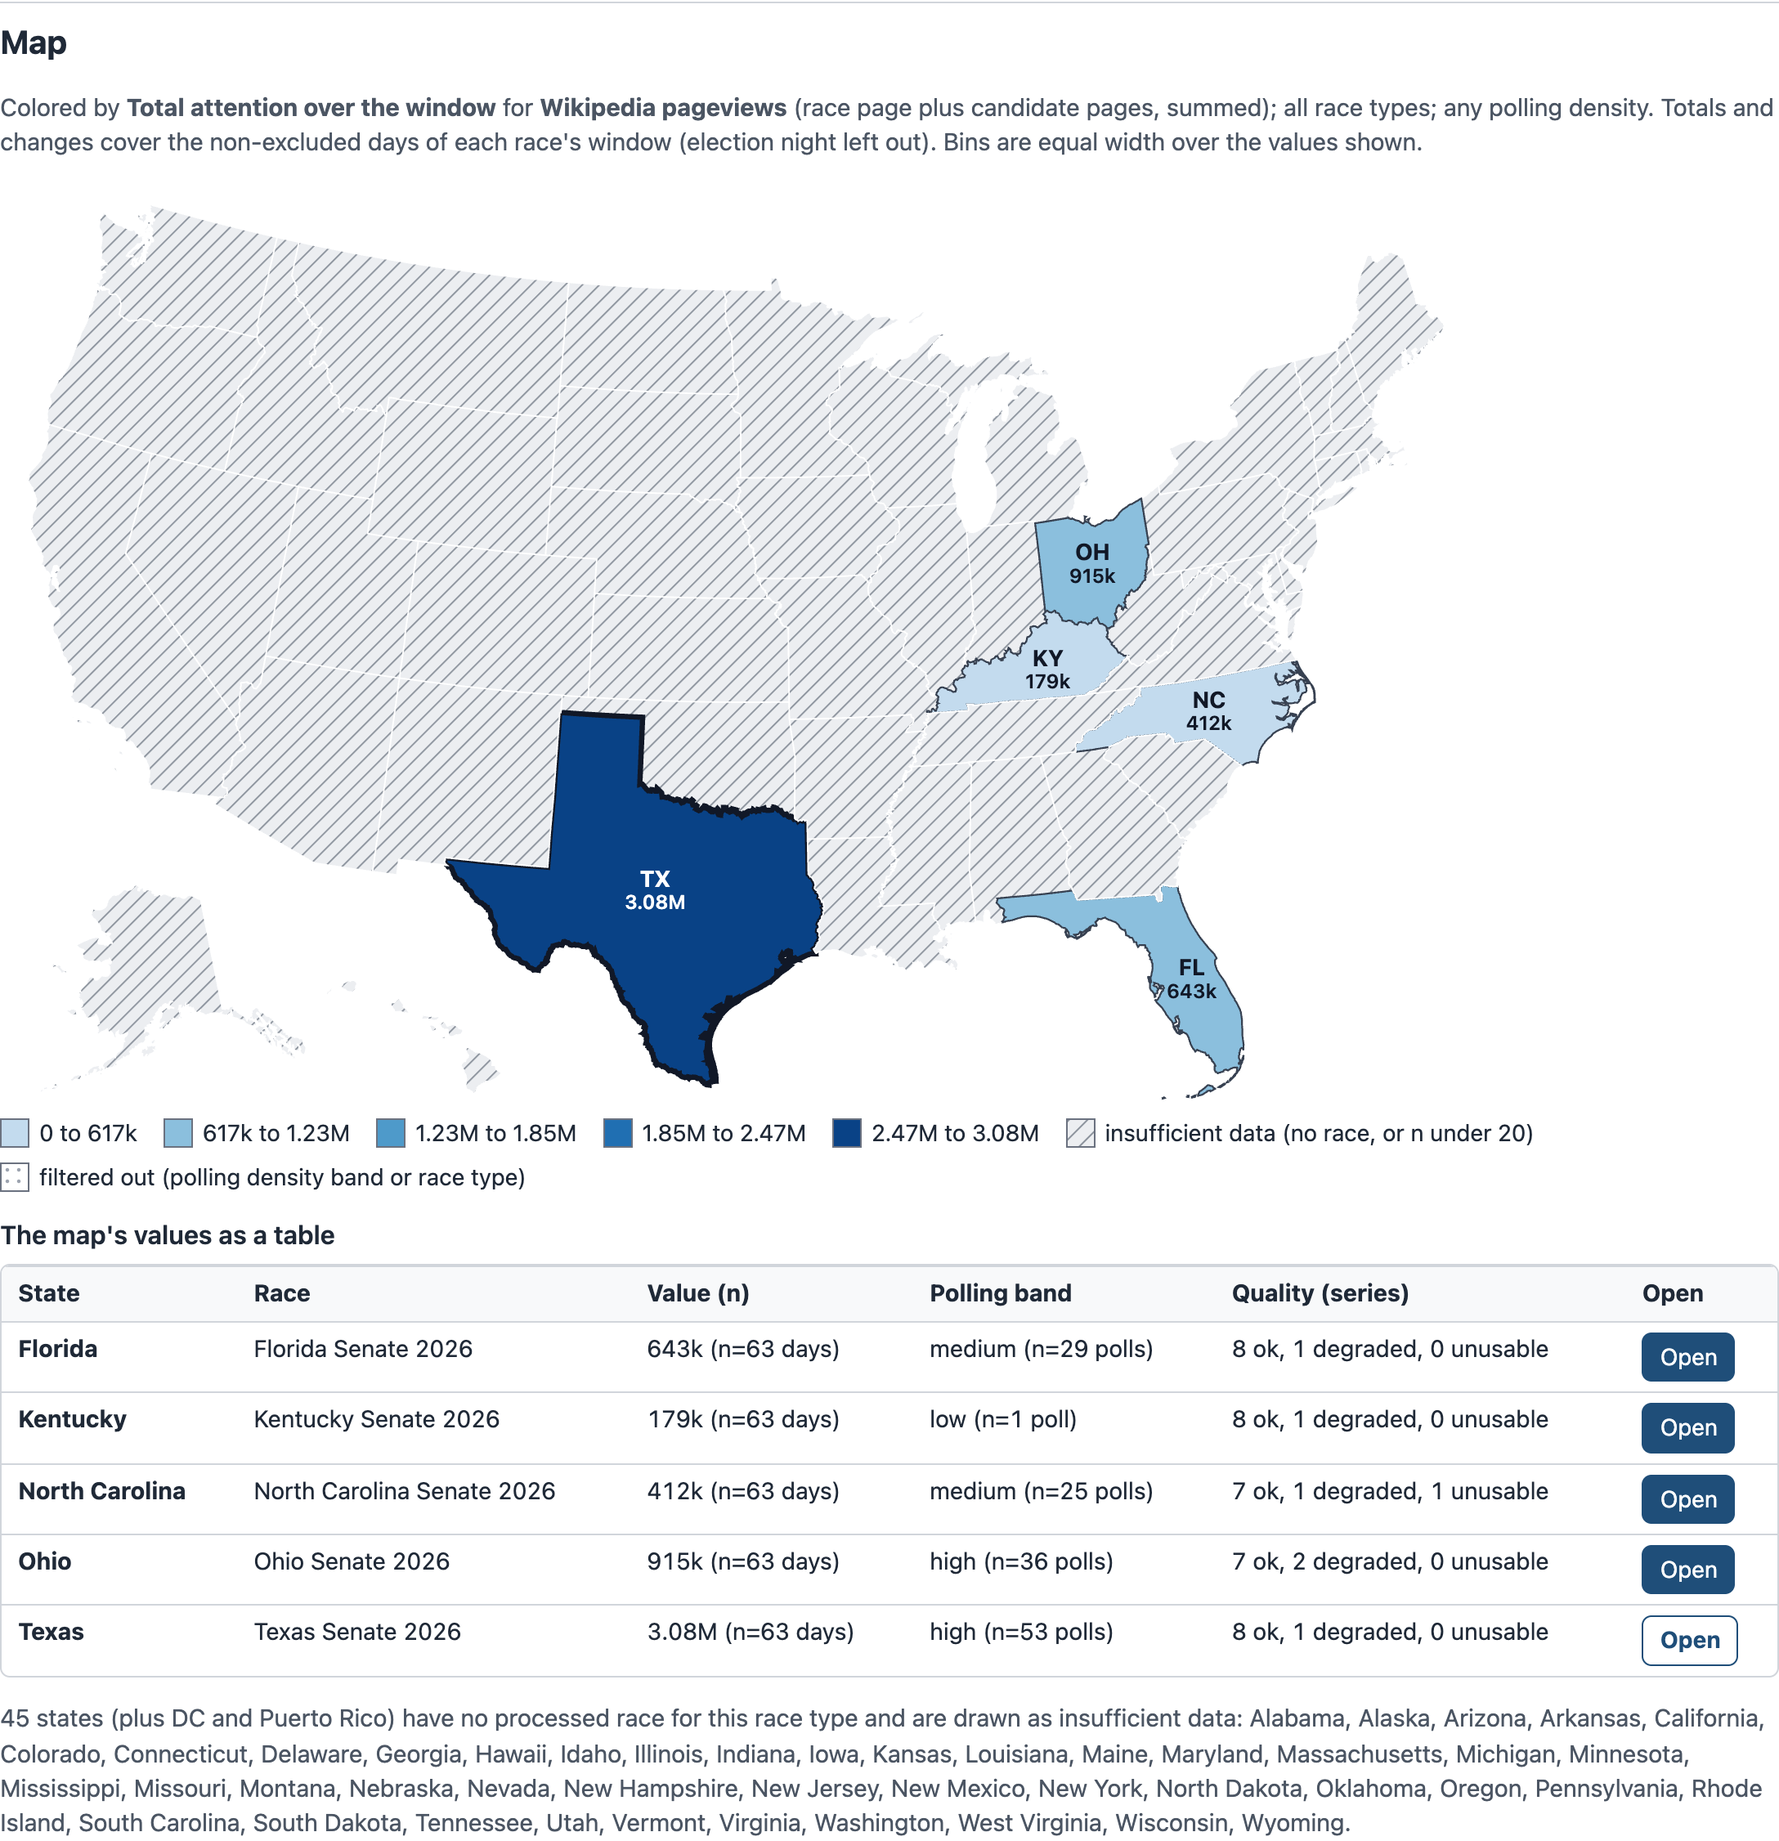
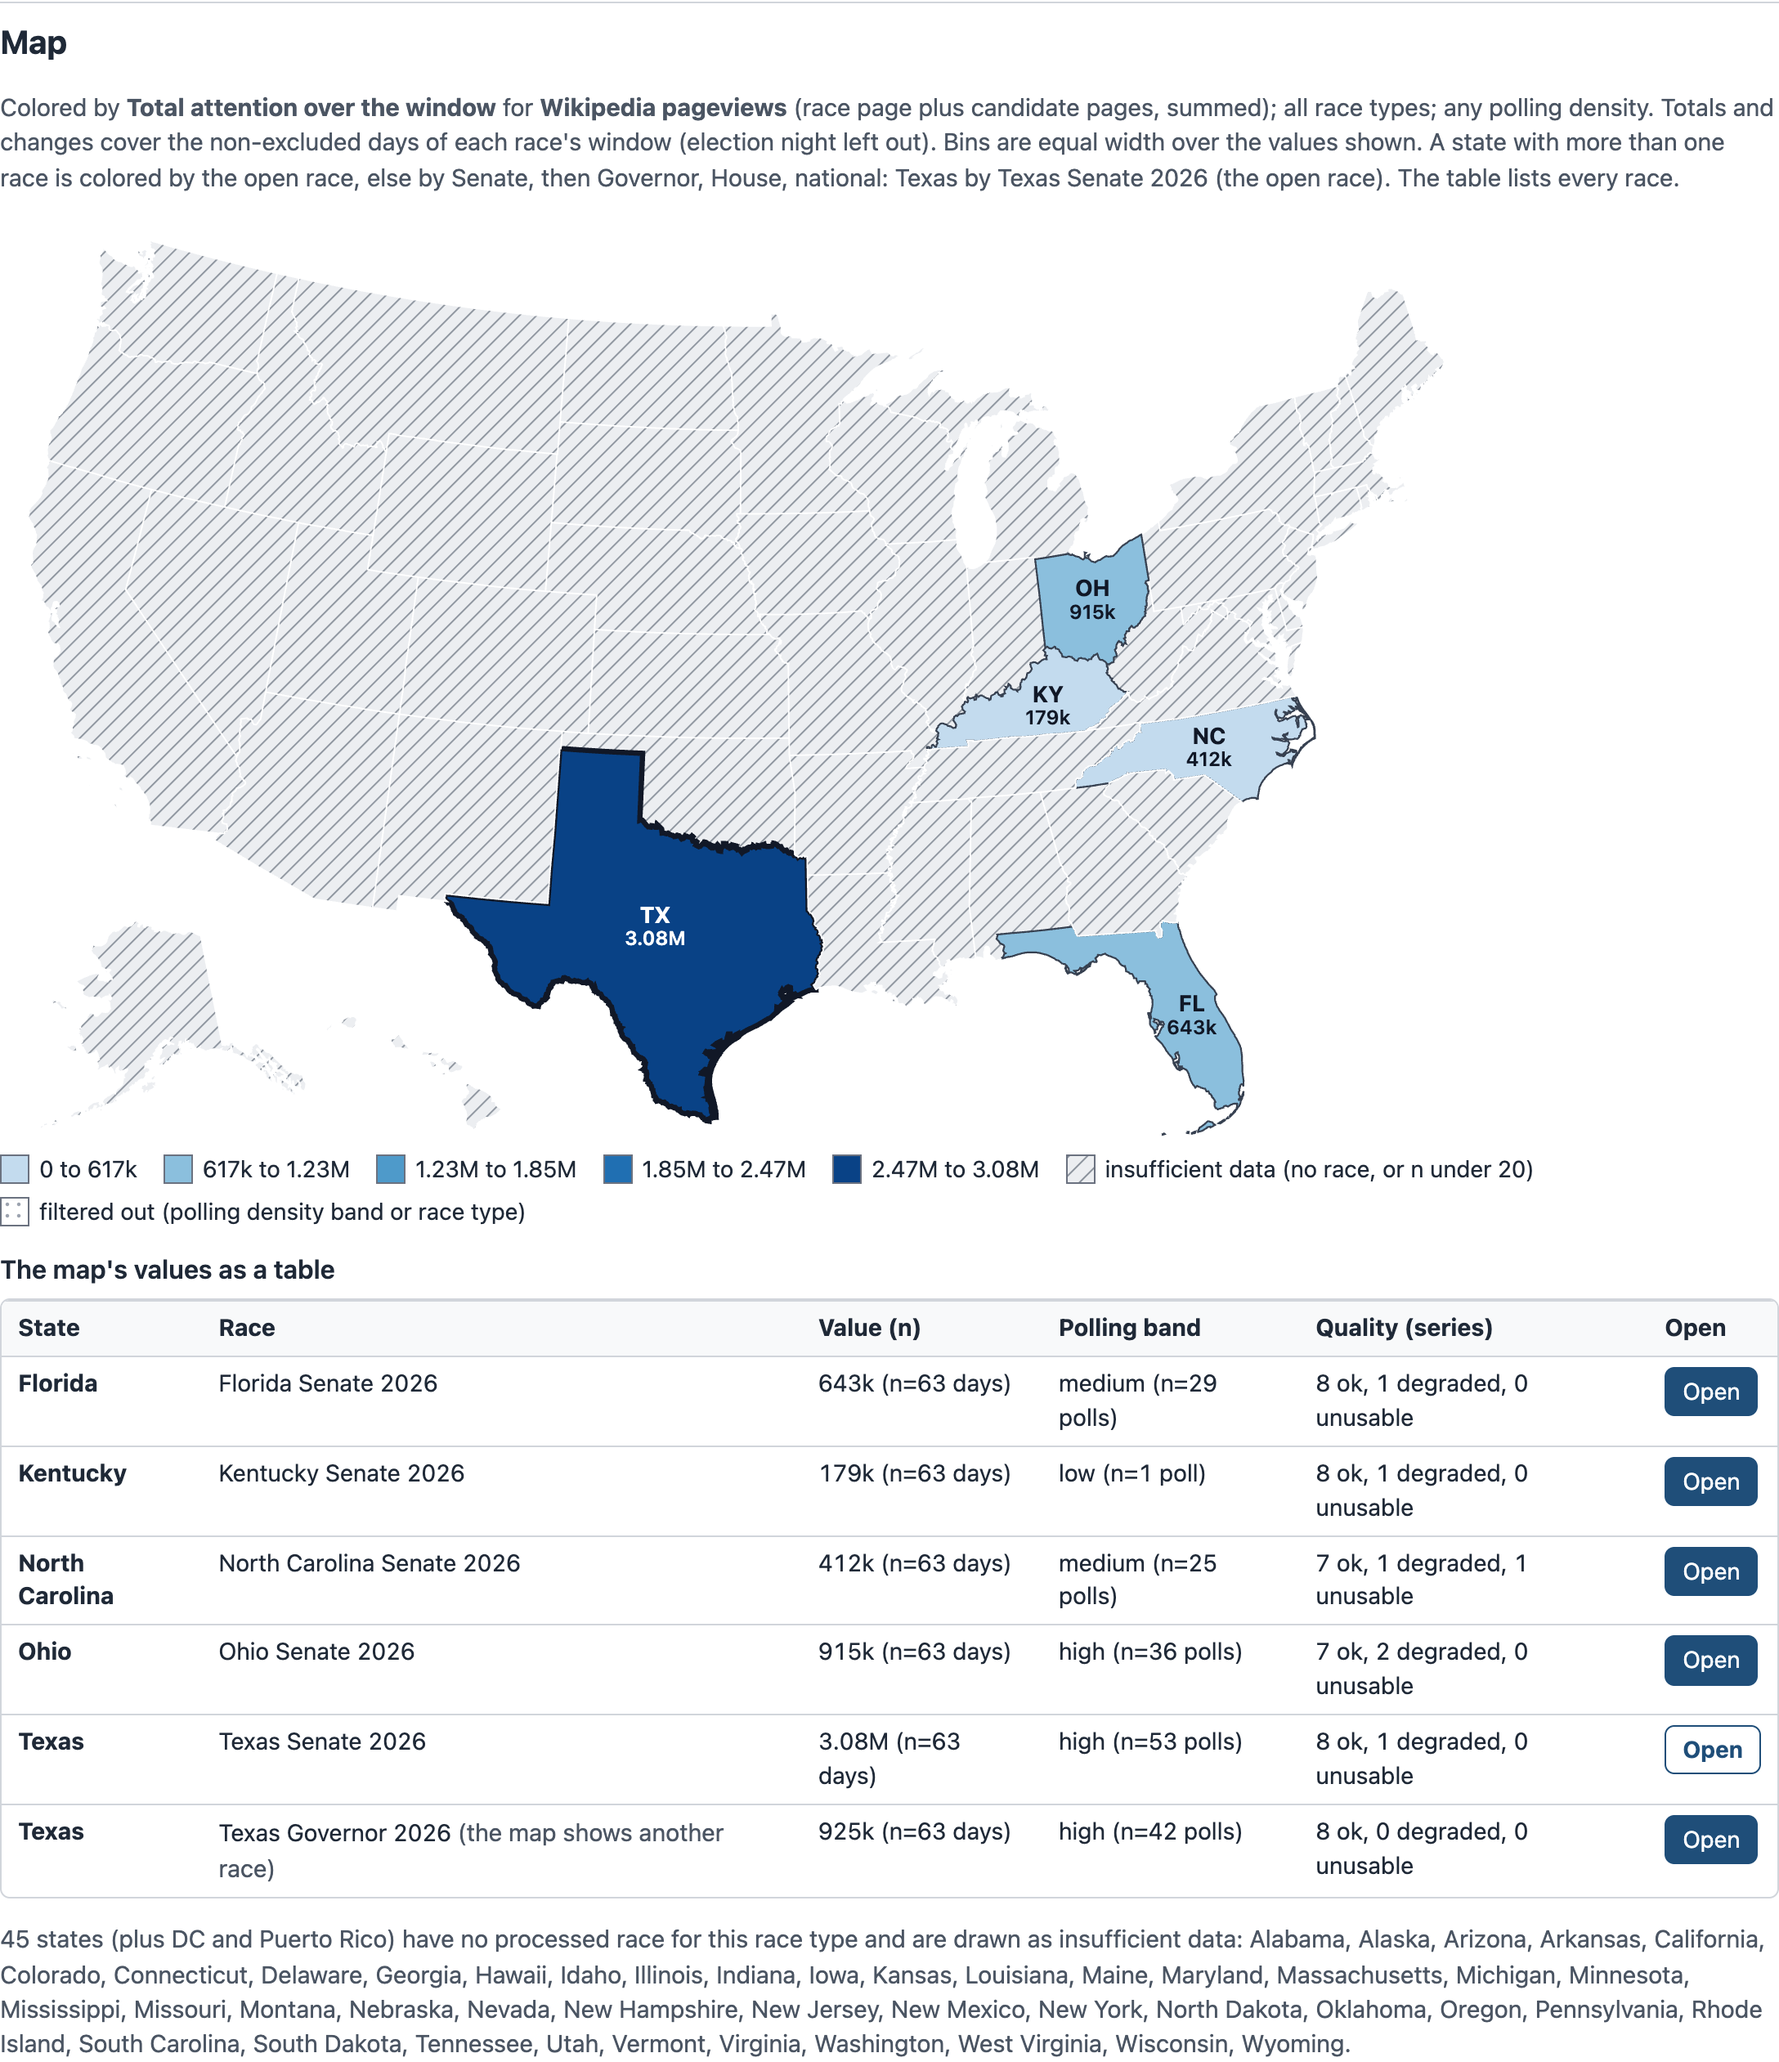
Pick a state's default race by office order, list every race in the map table
racesIn() sorted by office name, so Texas was drawn as its Governor race whenever
another state was open. Use senate, governor, house, national, then others; keep
the open race for the open state. The map table now has one row per race, and the
caption names the race that colors each multi-race state. Adds a vitest for the
order and a verify check with Florida open.

Changed region(s): [[0.0, 0.1243, 1.0, 1.0], [0.0, 0.0, 1.0, 0.0933]]

diff --git a/web/src/main.ts b/web/src/main.ts
@@ -5,7 +5,7 @@ import { DEFAULT_RACE, FUNDING_DISCLOSURE, GROUP_DEFAULT_SOURCE, PROJECT_NAME, S
 import { fmtMap, renderMap, type StateCell } from "./map";
 import { el, esc, raceTitle, RaceView, shownSeries, type RaceUi } from "./race";
 import type { IndexData, IndexRace, RaceData } from "./types";
-import { clampRange, densityBand, type DensityBand, mapValue, type MapMetric, PLATFORM_GROUP, raceIdFromSearch,
+import { byOffice, clampRange, densityBand, type DensityBand, mapValue, type MapMetric, PLATFORM_GROUP, raceIdFromSearch,
   type View } from "./transforms";
 
 const METRICS: Record<MapMetric, { label: string; diverging: boolean }> = {
@@ -84,7 +84,7 @@ function writeUrl(ui: Ui) {
 
 function racesIn(state: string, office: string): IndexRace[] {
   return Object.values(index.races).filter((r) => r.state === state && (office === "all" || r.office === office))
-    .sort((a, b) => a.office.localeCompare(b.office));
+    .sort(byOffice);
 }
 
 /** The attention series the map reads for the current platform and source filters. */
@@ -216,44 +216,55 @@ function drawMap(ui: Ui) {
   const source = mapSource(ui);
   const m = METRICS[ui.metric];
   const cells = new Map<string, StateCell>();
+  const rows: StateCell[] = [];
+  const multi: string[] = [];
   const fmt = { int: format(".3~s"), two: format(".2f"), pct: format(".0%") };
+  const cellOf = (code: string, r: IndexRace): StateCell => {
+    const v = mapValue(r.metrics, ui.metric, mapSeries(r, source), fmt);
+    const band = densityBand(r.metrics?.polling_density);
+    return { code, name: STATES[code], value: v.value, raceId: r.race_id, filteredOut: ui.band !== "all" && band !== ui.band,
+      text: v.value === null ? `insufficient data (${v.reason})` : v.text };
+  };
   for (const code of Object.keys(STATES)) {
+    // the selected state keeps its selected race; any other state is filled by its first race in office order
     const rs = racesIn(code, ui.office);
     const r = rs.find((x) => x.race_id === ui.race) ?? rs[0];
     if (!r) {
       cells.set(code, { code, name: STATES[code], value: null, text: "no processed race", raceId: null, filteredOut: false });
       continue;
     }
-    const series = mapSeries(r, source);
-    const v = mapValue(r.metrics, ui.metric, series, fmt);
-    const band = densityBand(r.metrics?.polling_density);
-    const filteredOut = ui.band !== "all" && band !== ui.band;
-    cells.set(code, { code, name: STATES[code], value: v.value, raceId: r.race_id, filteredOut,
-      text: v.value === null ? `insufficient data (${v.reason})` : v.text });
+    cells.set(code, cellOf(code, r));
+    for (const x of rs) rows.push(x === r ? cells.get(code)! : cellOf(code, x));
+    if (rs.length > 1) multi.push(`${STATES[code]} by ${raceTitle({ race: r })}${code === ui.state ? " (the open race)" : ""}`);
   }
   const usesSource = ui.metric === "attention_total" || ui.metric === "attention_rho";
   document.getElementById("map-caption")!.innerHTML = `Colored by <strong>${esc(m.label)}</strong>${usesSource
     ? ` for <strong>${esc(SOURCE_LABEL[source] ?? source)}</strong>${source === "wikipedia" ? " (race page plus candidate pages, summed)" : ""}`
     : ""}; ${ui.office === "all" ? "all race types" : `${esc(ui.office)} races only`}; ${esc(BANDS[ui.band].toLowerCase())}.
     Totals and changes cover the non-excluded days of each race's window (election night left out). Bins are equal
-    width over the values shown.`;
+    width over the values shown.${multi.length ? ` A state with more than one race is colored by the open race, else by
+    Senate, then Governor, House, national: ${esc(multi.join("; "))}. The table lists every race.` : ""}`;
   renderMap(document.getElementById("map")!, cells, { diverging: m.diverging, metricLabel: m.label, selected: ui.state,
     fmt: fmtMap[ui.metric], onPick: (code) => pickState(ui, code) });
-  const withRace = [...cells.values()].filter((c) => c.raceId).sort((a, b) => a.name.localeCompare(b.name));
+  rows.sort((a, b) => a.name.localeCompare(b.name) || byOffice(index.races[a.raceId!], index.races[b.raceId!]));
   const tbody = document.querySelector("#map-table tbody")!;
-  tbody.innerHTML = withRace.map((c) => {
+  tbody.innerHTML = rows.map((c) => {
     const r = index.races[c.raceId!];
+    const fills = cells.get(c.code)!.raceId === c.raceId;
     const qs = r.metrics?.quality_summary;
     const band = densityBand(r.metrics?.polling_density);
-    return `<tr data-state="${c.code}"><th scope="row">${esc(c.name)}</th><td>${esc(raceTitle({ race: r }))}</td>
+    return `<tr data-state="${c.code}" data-race="${esc(r.race_id)}"${fills ? ' data-fill="true"' : ""}><th scope="row">${
+      esc(c.name)}</th><td>${esc(raceTitle({ race: r }))}${fills ? "" : ' <span class="note">(the map shows another race)</span>'}</td>
       <td data-k="value">${c.filteredOut ? `filtered out by the band; ${esc(c.text)}` : esc(c.text)}</td>
       <td>${band ?? "unknown"}${r.metrics?.polling_density != null ? ` (n=${r.metrics.polling_density} poll${r.metrics.polling_density === 1 ? "" : "s"})` : ""}</td>
       <td>${qs ? `${qs.ok} ok, ${qs.degraded} degraded, ${qs.unusable} unusable` : "n/a"}</td>
-      <td><button type="button" class="linkish" data-open="${c.code}" ${ui.state === c.code ? 'aria-current="true"' : ""}>Open
-        <span class="vh">${esc(c.name)}</span></button></td></tr>`;
+      <td><button type="button" class="linkish" data-open="${esc(r.race_id)}" ${ui.race === r.race_id ? 'aria-current="true"' : ""}>Open
+        <span class="vh">${esc(raceTitle({ race: r }))}</span></button></td></tr>`;
   }).join("");
-  tbody.querySelectorAll<HTMLButtonElement>("button[data-open]").forEach((b) =>
-    b.addEventListener("click", () => pickState(ui, b.dataset.open!)));
+  tbody.querySelectorAll<HTMLButtonElement>("button[data-open]").forEach((b) => b.addEventListener("click", () => {
+    ui.race = b.dataset.open!;
+    pickState(ui, index.races[ui.race].state);
+  }));
   const none = [...cells.values()].filter((c) => !c.raceId && c.code !== "DC" && c.code !== "PR").map((c) => c.name);
   document.getElementById("map-none")!.textContent = `${none.length} states (plus DC and Puerto Rico) have no processed
     race for this race type and are drawn as insufficient data: ${none.join(", ")}.`.replace(/\s+/g, " ");

diff --git a/web/tests/m3.test.ts b/web/tests/m3.test.ts
@@ -2,7 +2,7 @@ import { readFileSync, readdirSync } from "node:fs";
 import { resolve } from "node:path";
 import { describe, expect, it } from "vitest";
 import type { IndexData, RaceData } from "../src/types";
-import { clampRange, column, densityBand, eventStudy, keepMask, lagCellRho, mapValue, outcomes, passesFilter,
+import { byOffice, clampRange, column, densityBand, eventStudy, keepMask, lagCellRho, mapValue, outcomes, passesFilter,
   spearman, surprise, VOLUME, PRICE } from "../src/transforms";
 
 const PROCESSED = resolve(import.meta.dirname, "../../data/processed");
@@ -85,6 +85,18 @@ describe("filters and map values", () => {
     const v = mapValue(tx.metrics, "attention_rho", "wikipedia/pageviews_total", fmt);
     expect(v.value).toBeCloseTo(0.2383, 4);
     expect(v.n).toBe(56);
+  });
+});
+
+describe("default race per state", () => {
+  it("orders offices senate, governor, house, national, then others, not alphabetically", () => {
+    const rs = ["mayor", "national", "house", "governor", "senate", "attorney"].map((office) => ({ office, race_id: `xx-${office}` }));
+    expect(rs.sort(byOffice).map((r) => r.office)).toEqual(["senate", "governor", "house", "national", "attorney", "mayor"]);
+  });
+  it("picks the Senate race for Texas, which also has a Governor race", () => {
+    const tx = Object.values(index.races).filter((r) => r.state === "TX").sort(byOffice);
+    expect(tx.length).toBeGreaterThan(1);
+    expect(tx[0].race_id).toBe("tx-senate-2026");
   });
 });
 

diff --git a/web/src/transforms.ts b/web/src/transforms.ts
@@ -296,6 +296,14 @@ export function mapValue(m: import("./types").IndexMetrics | undefined, metric: 
     text: `${fmt.pct(c.share)} (n=${c.n_series} series x ${c.window_days} days)` };
 }
 
+/** Office order for picking a state's default race: senate, governor, house, national, then others by name. */
+export const OFFICE_ORDER = ["senate", "governor", "house", "national"];
+
+export function byOffice(a: { office: string; race_id: string }, b: { office: string; race_id: string }): number {
+  const rank = (o: string) => { const i = OFFICE_ORDER.indexOf(o); return i < 0 ? OFFICE_ORDER.length : i; };
+  return rank(a.office) - rank(b.office) || a.office.localeCompare(b.office) || a.race_id.localeCompare(b.race_id);
+}
+
 export type DensityBand = "all" | "low" | "medium" | "high";
 /** Polling density bands for the map filter: low under 10 polls in the window, medium 10 to 29, high 30 or more. */
 export function densityBand(polls: number | null | undefined): Exclude<DensityBand, "all"> | null {

diff --git a/web/src/map.ts b/web/src/map.ts
@@ -75,6 +75,7 @@ export function renderMap(root: HTMLElement, cells: Map<string, StateCell>, opts
     const p = document.createElementNS(NS, "path");
     p.setAttribute("d", path(f) ?? "");
     p.setAttribute("data-state", code);
+    if (c?.raceId) p.setAttribute("data-race", c.raceId);
     const fill = !c || c.filteredOut ? FILTERED_FILL : c.value === null || !scale ? INSUFFICIENT_FILL : scale(c.value);
     p.setAttribute("fill", c?.filteredOut ? FILTERED_FILL : fill);
     p.setAttribute("class", "st" + (c?.raceId ? " has-race" : "") + (opts.selected === code ? " selected" : ""));

diff --git a/docs/m3-notes.md b/docs/m3-notes.md
@@ -209,6 +209,7 @@ The draft also has `status: needs_review` and a `discovery` block, which the han
 - Bins: five equal-width bins over the values shown; diverging metrics centered on 0.
 - Event study anchors: confirmed events, else spike days of the selected series.
 - Default view: the map with Texas Senate open below it (the M1 default race).
+- Default race for a state with several races: the open race if the state is open, else office order senate, governor, house, national, then others (was alphabetical, so Texas showed Governor); the map table lists every race and the caption names the race that colors each multi-race state.
 
 ## Unverified
 
